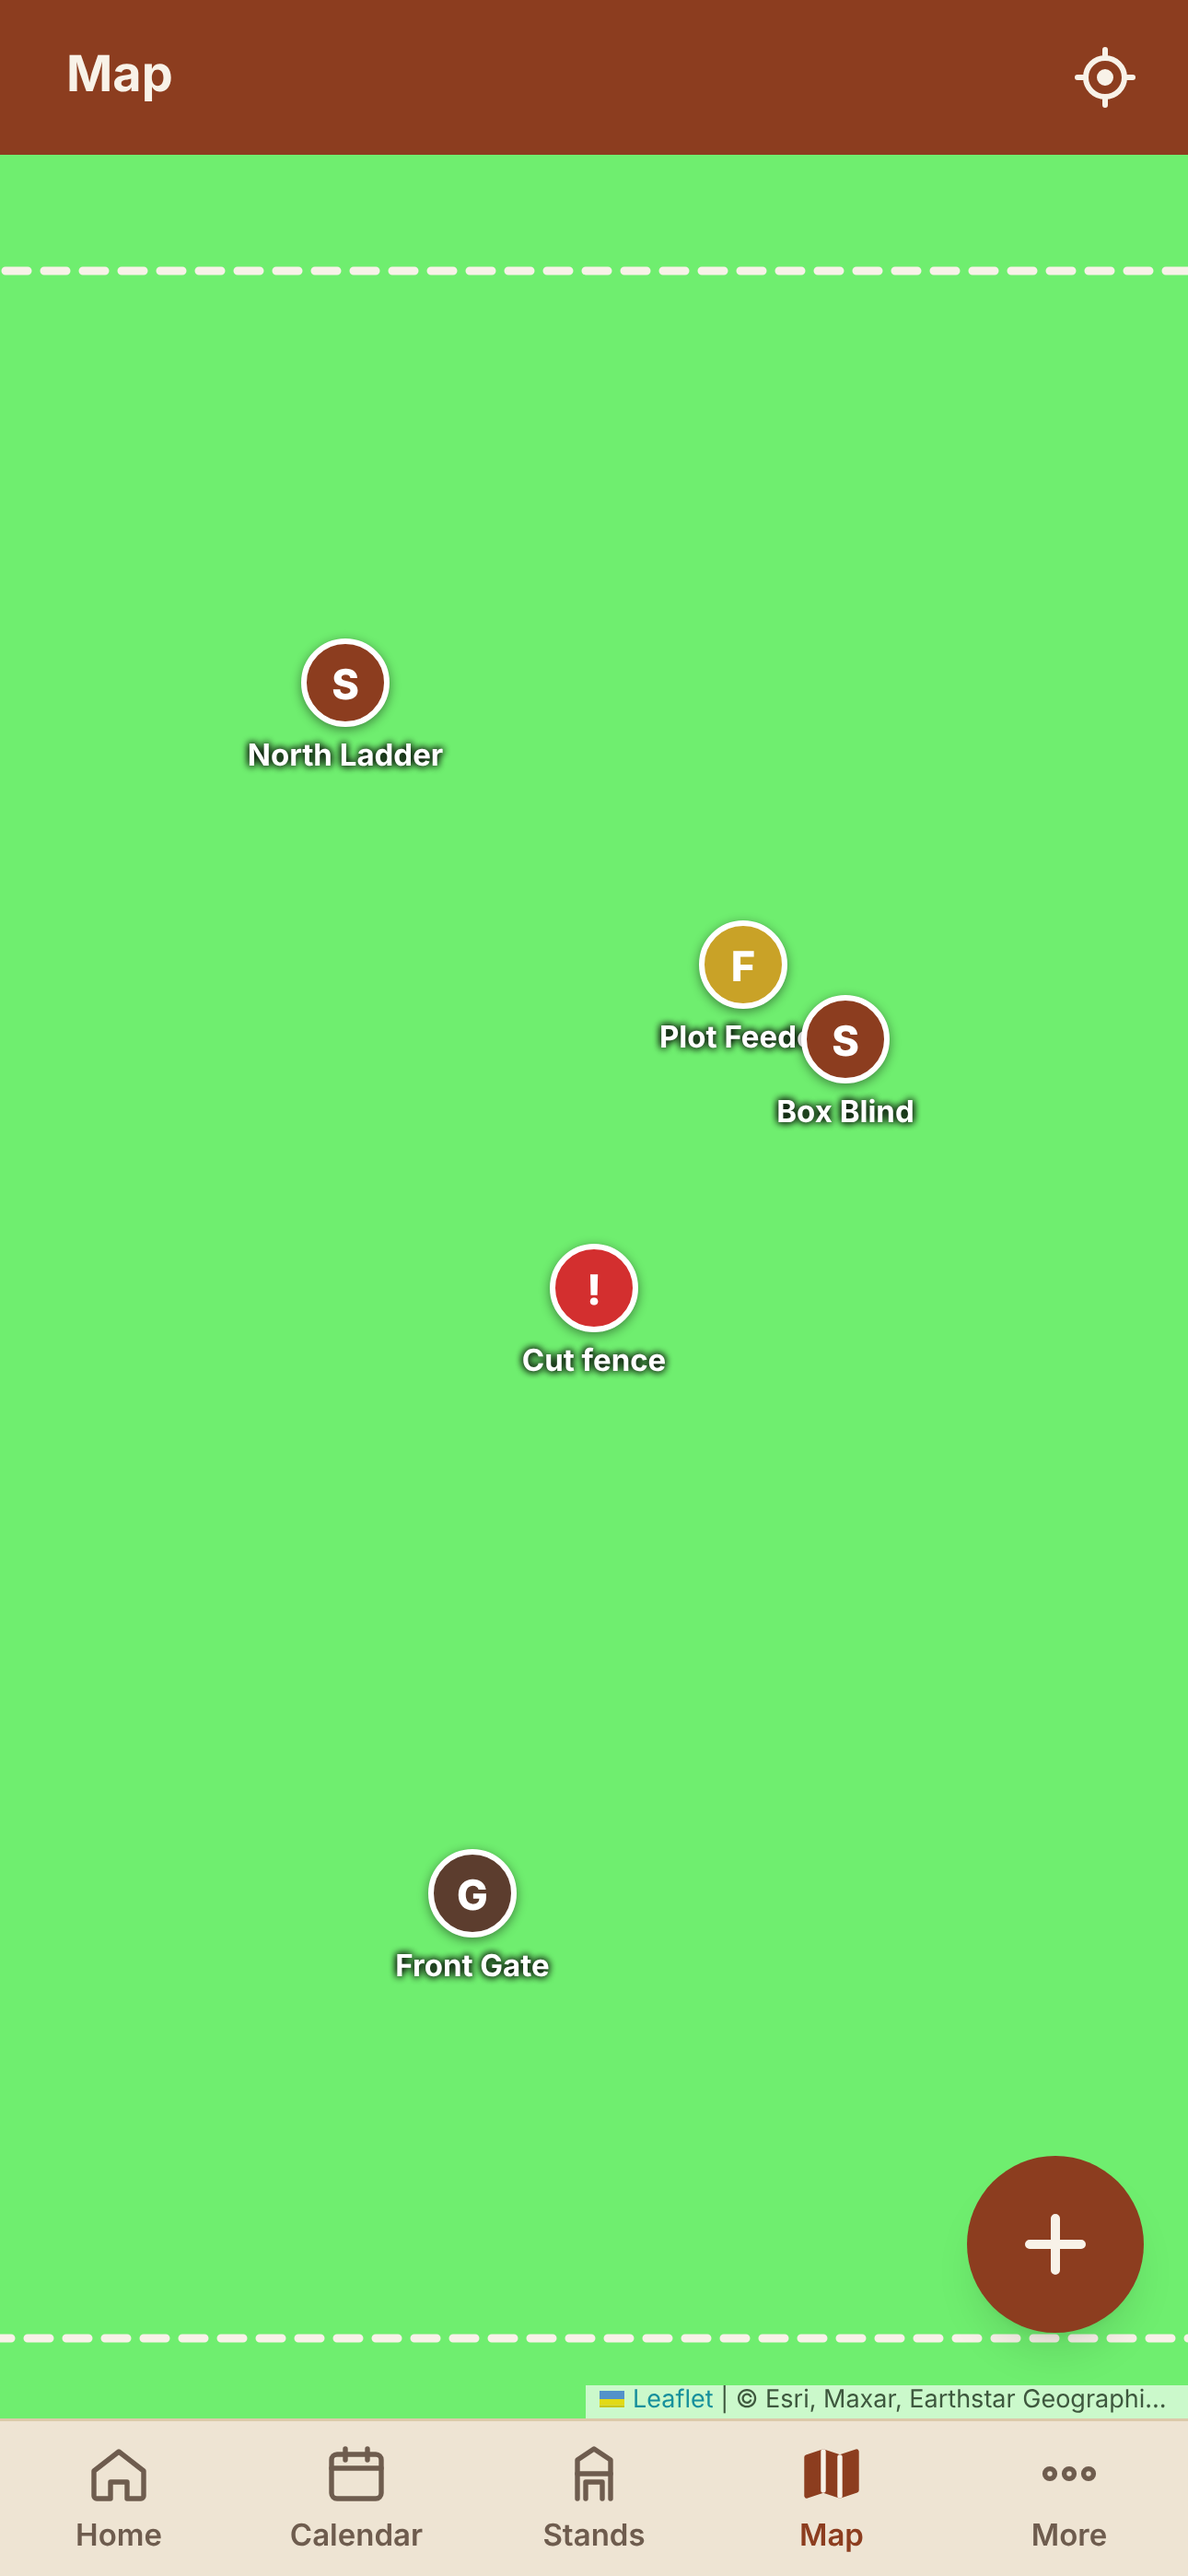
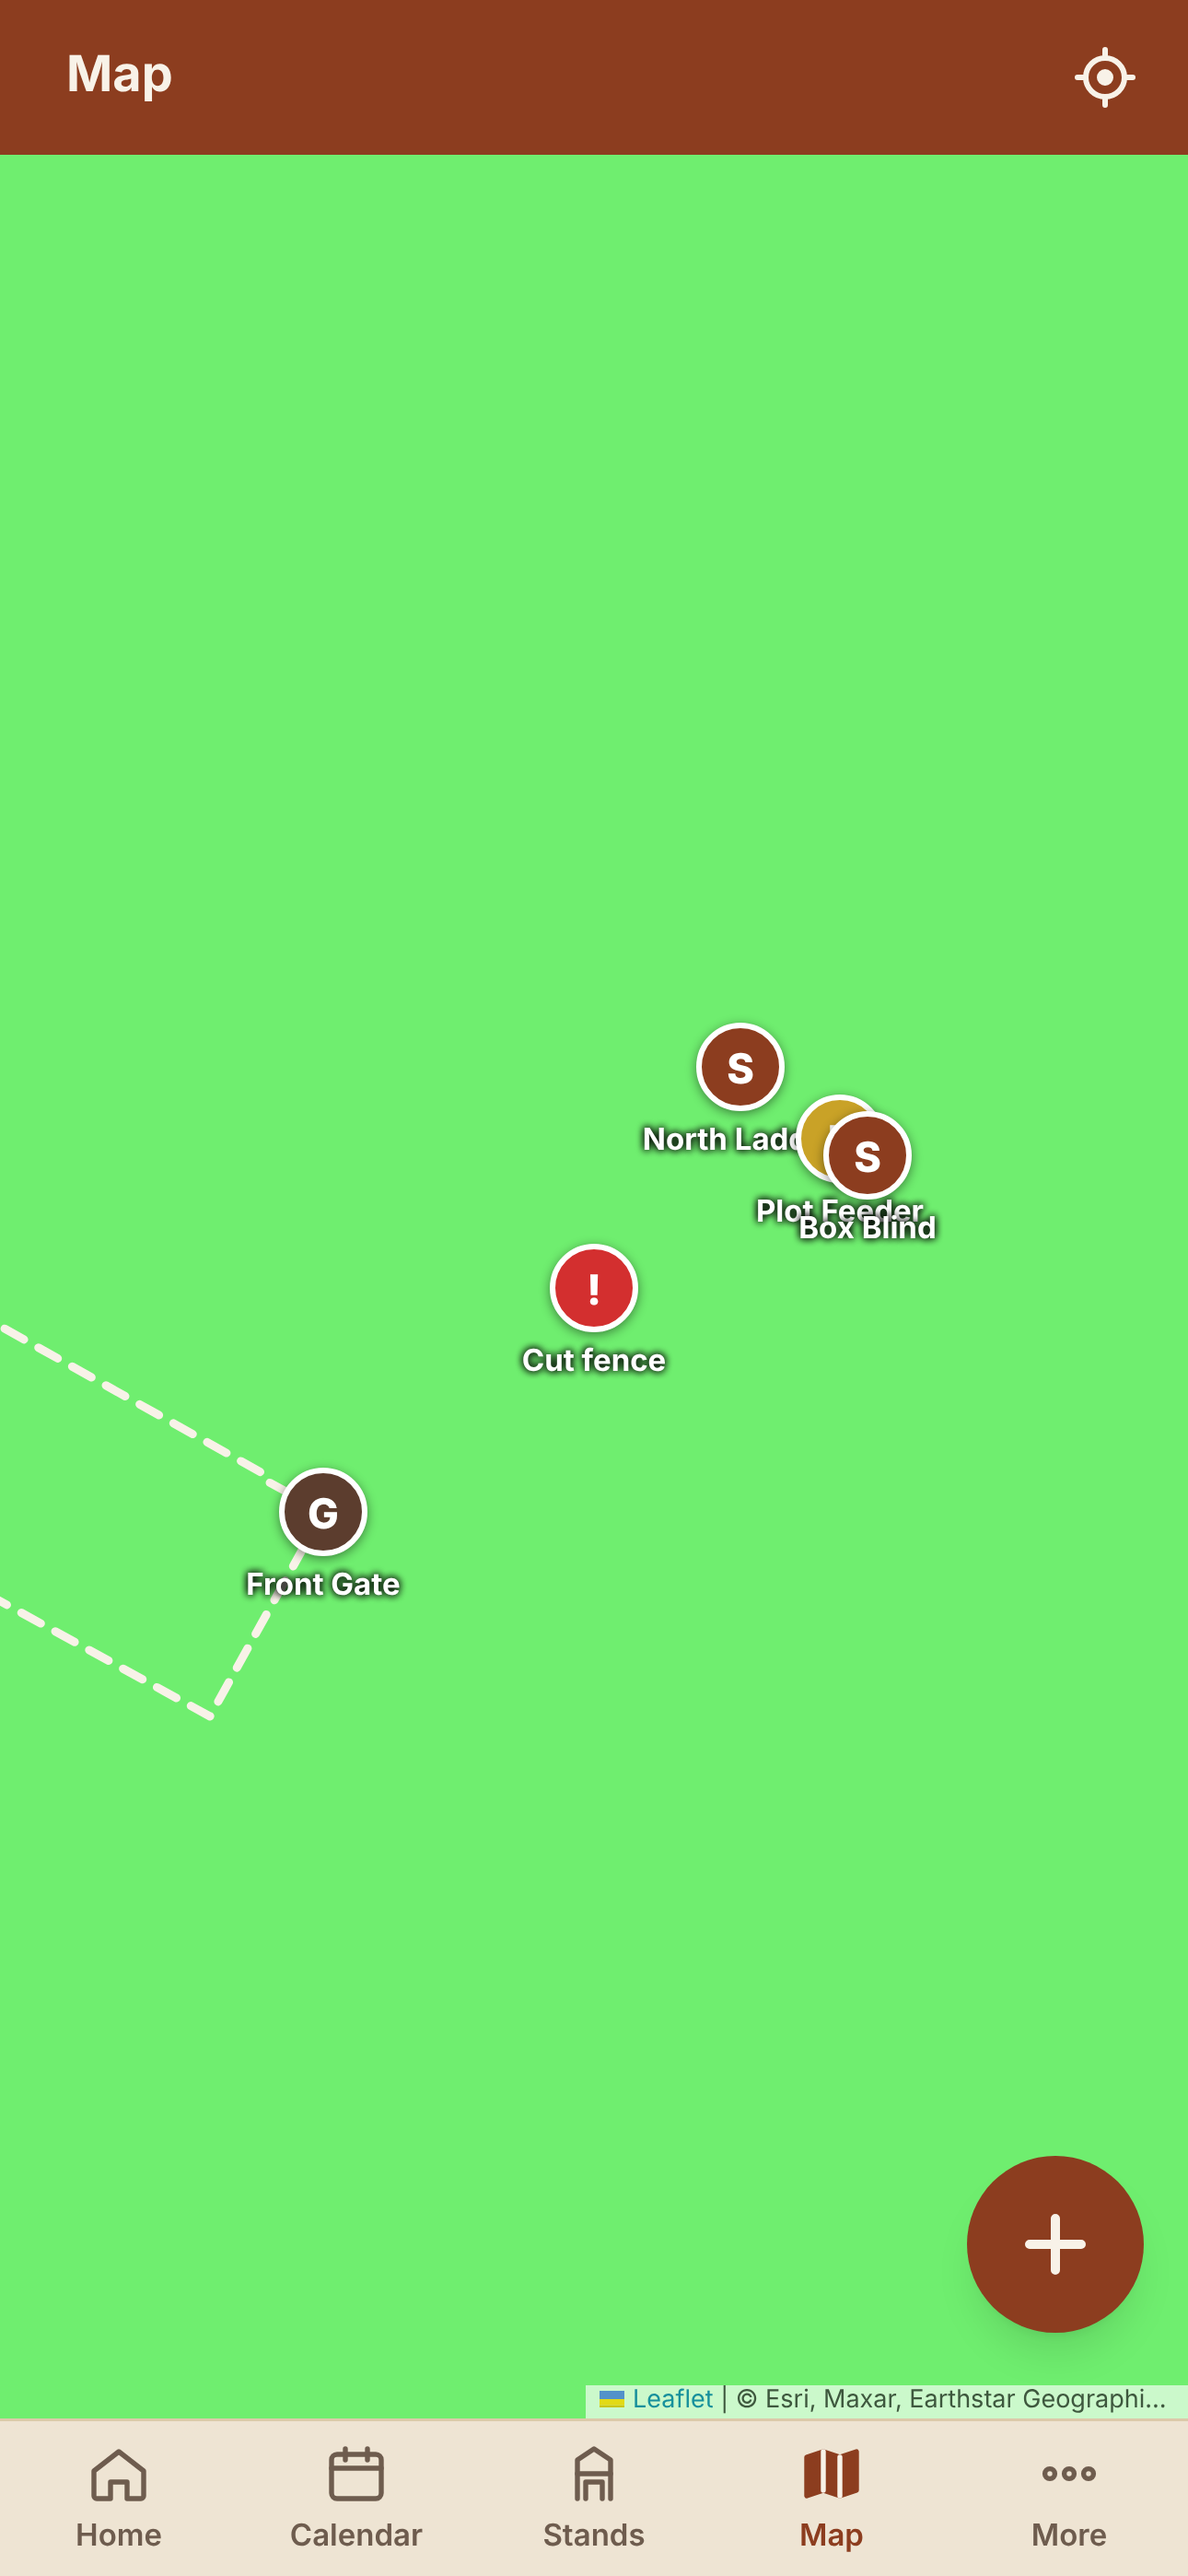
Property boundary from the real CAD parcel KML; seed pins moved inside it
- docs/parcel-8554.kml and .geojson hold the 13-corner parcel polygon
- seed boundary replaced; placeholder pins re-centered inside the parcel
- emergency GPS set to the parcel's CR 211 frontage pending confirmation at the gate
- smoke test imports the real KML and checks all 13 corners survive

Claude-Session: https://claude.ai/code/session_01RjS6QfguHLSCFchmoCiRhY

diff --git a/README.md b/README.md
@@ -29,7 +29,7 @@ This is not real security (the spec says so). It keeps strangers out and makes a
 
 ## The property
 
-Gonzales County, Texas, just south of Smiley. Gonzales CAD parcel **8554**, Abstract 380 (George W. Petty survey), 418.5 acres, owner Kiatta Properties LP. The parcel map on gonzalescad.org is the source for the boundary; trace it in the app (Phase 3) or export it as KML/GeoJSON and import it.
+Gonzales County, Texas, just south of Smiley. Gonzales CAD parcel **8554**, Abstract 380 (George W. Petty survey), 418.5 acres, owner Kiatta Properties LP. The parcel polygon is in `docs/parcel-8554.kml` (and as GeoJSON). The seed loads it as the property boundary; the admin can also import it from the Map tab.
 
 ## Map and stands
 
